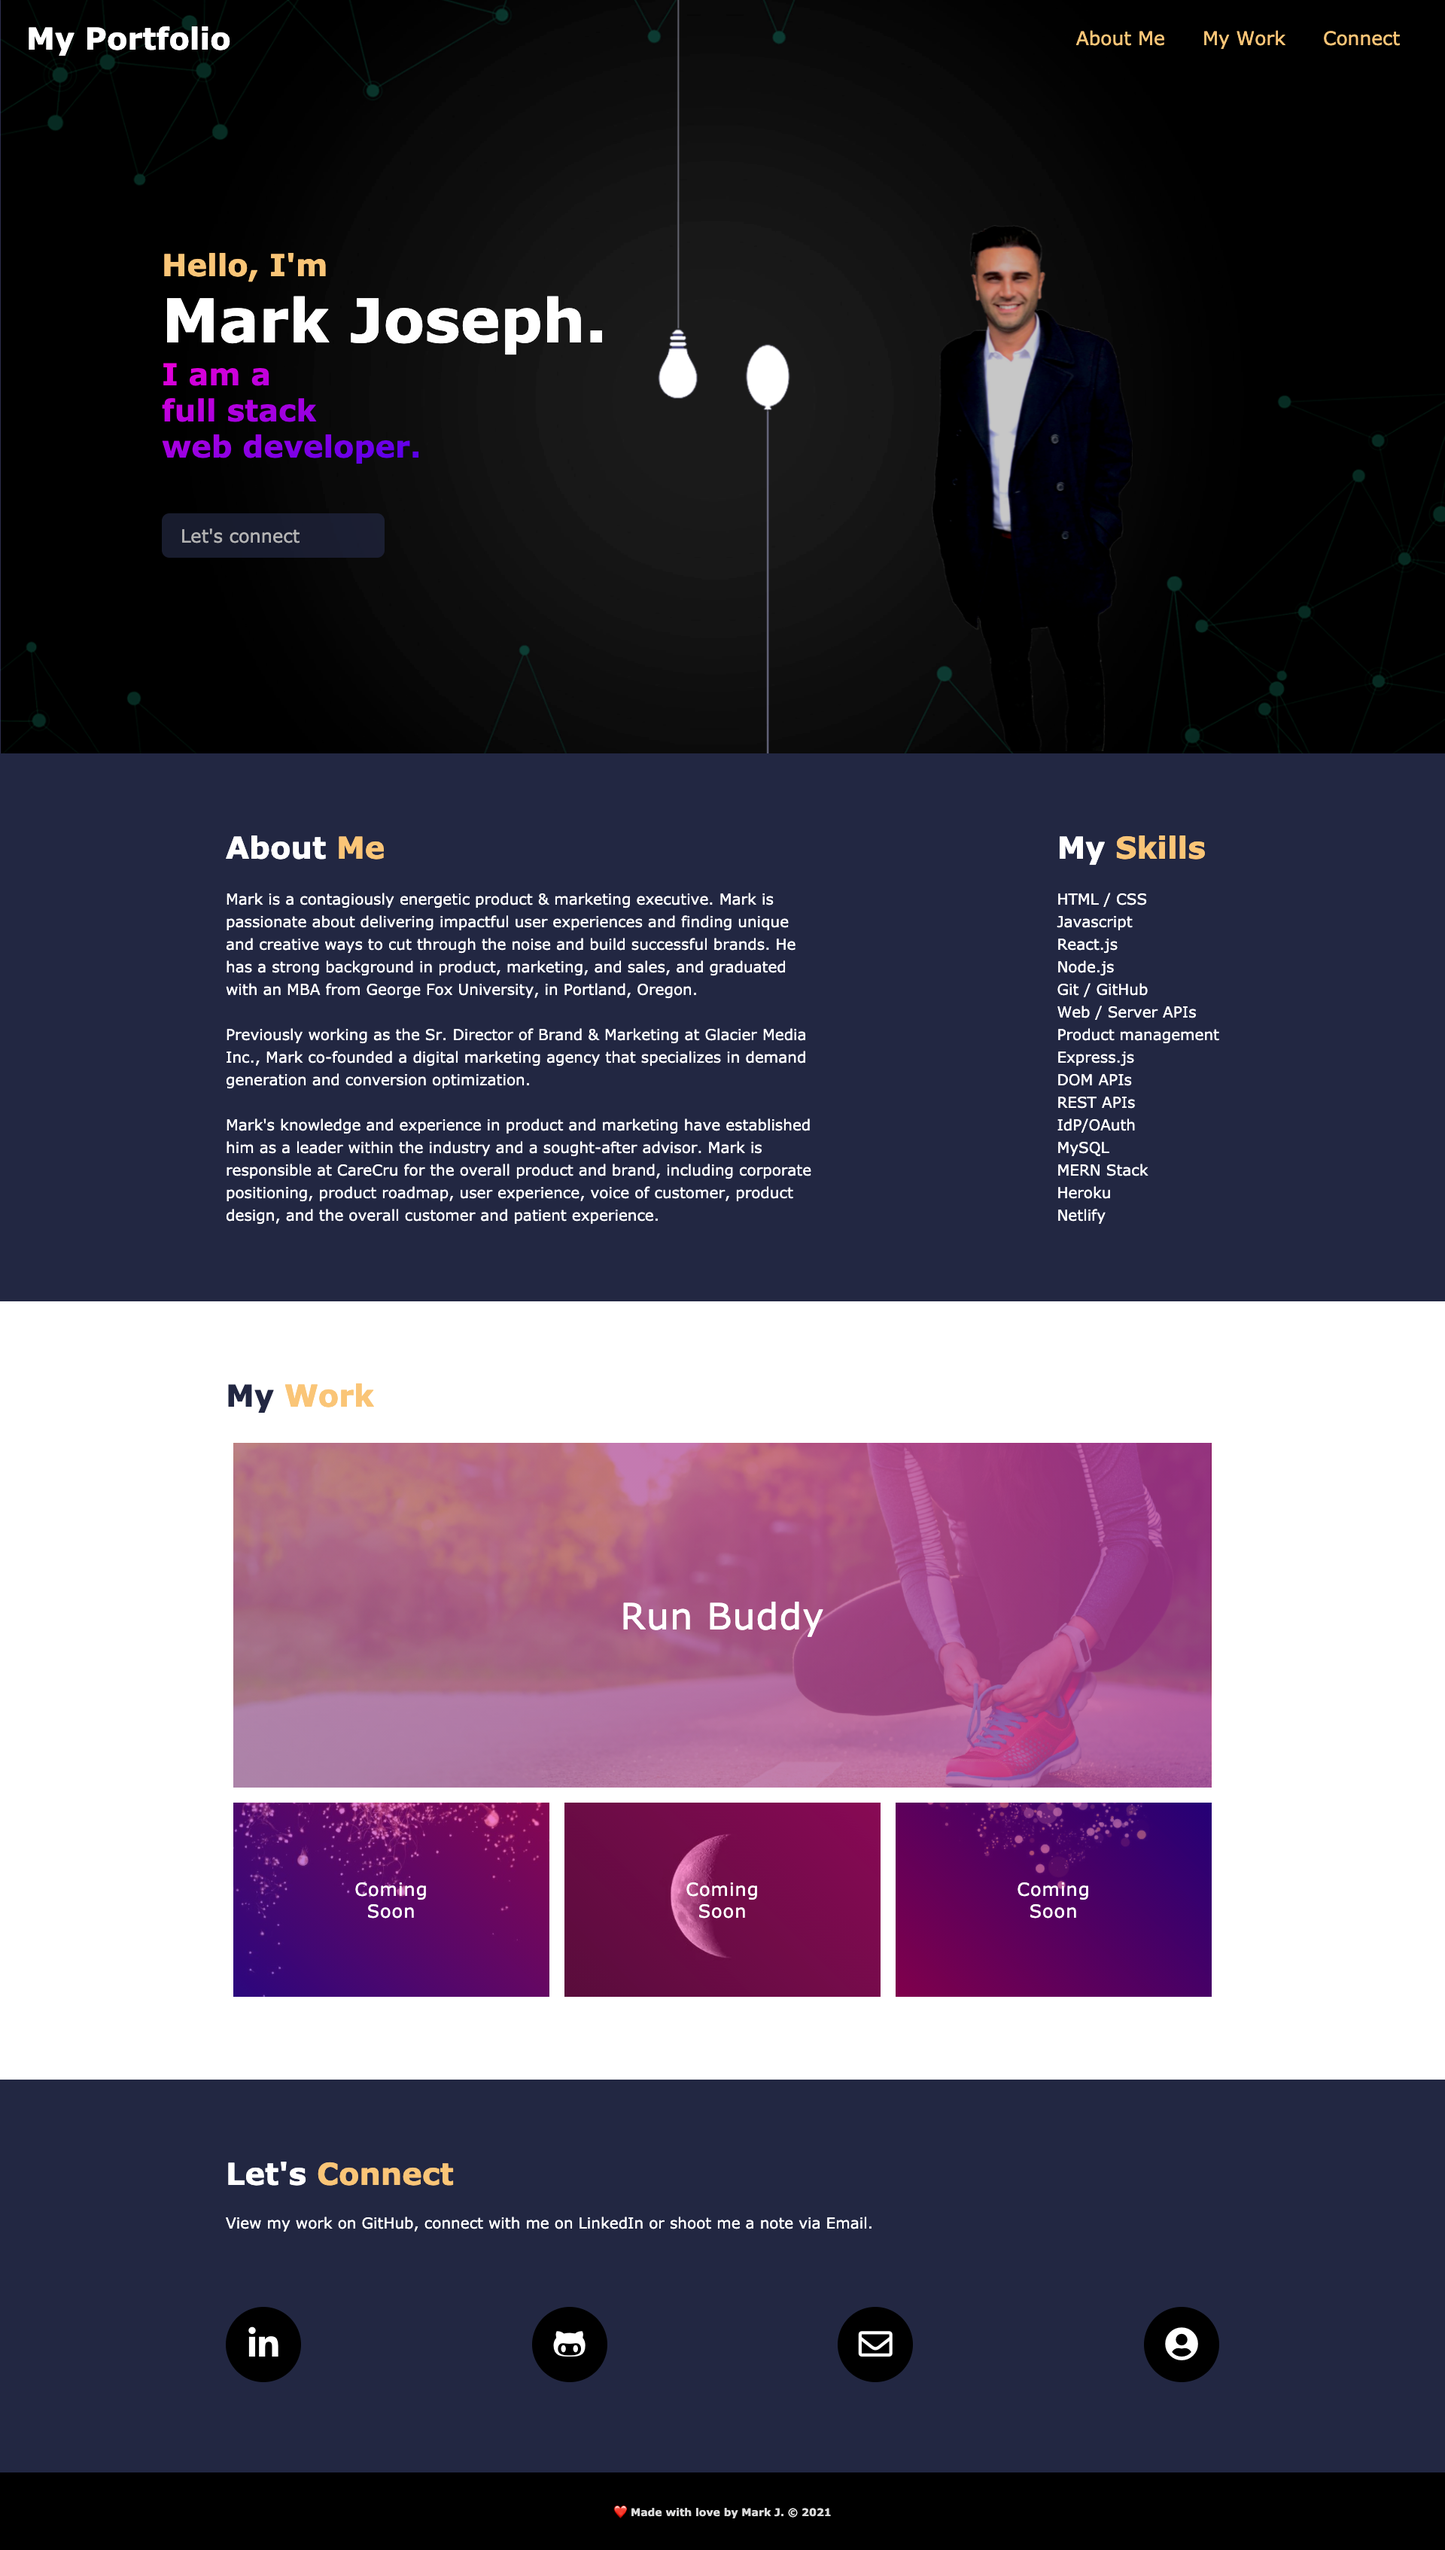
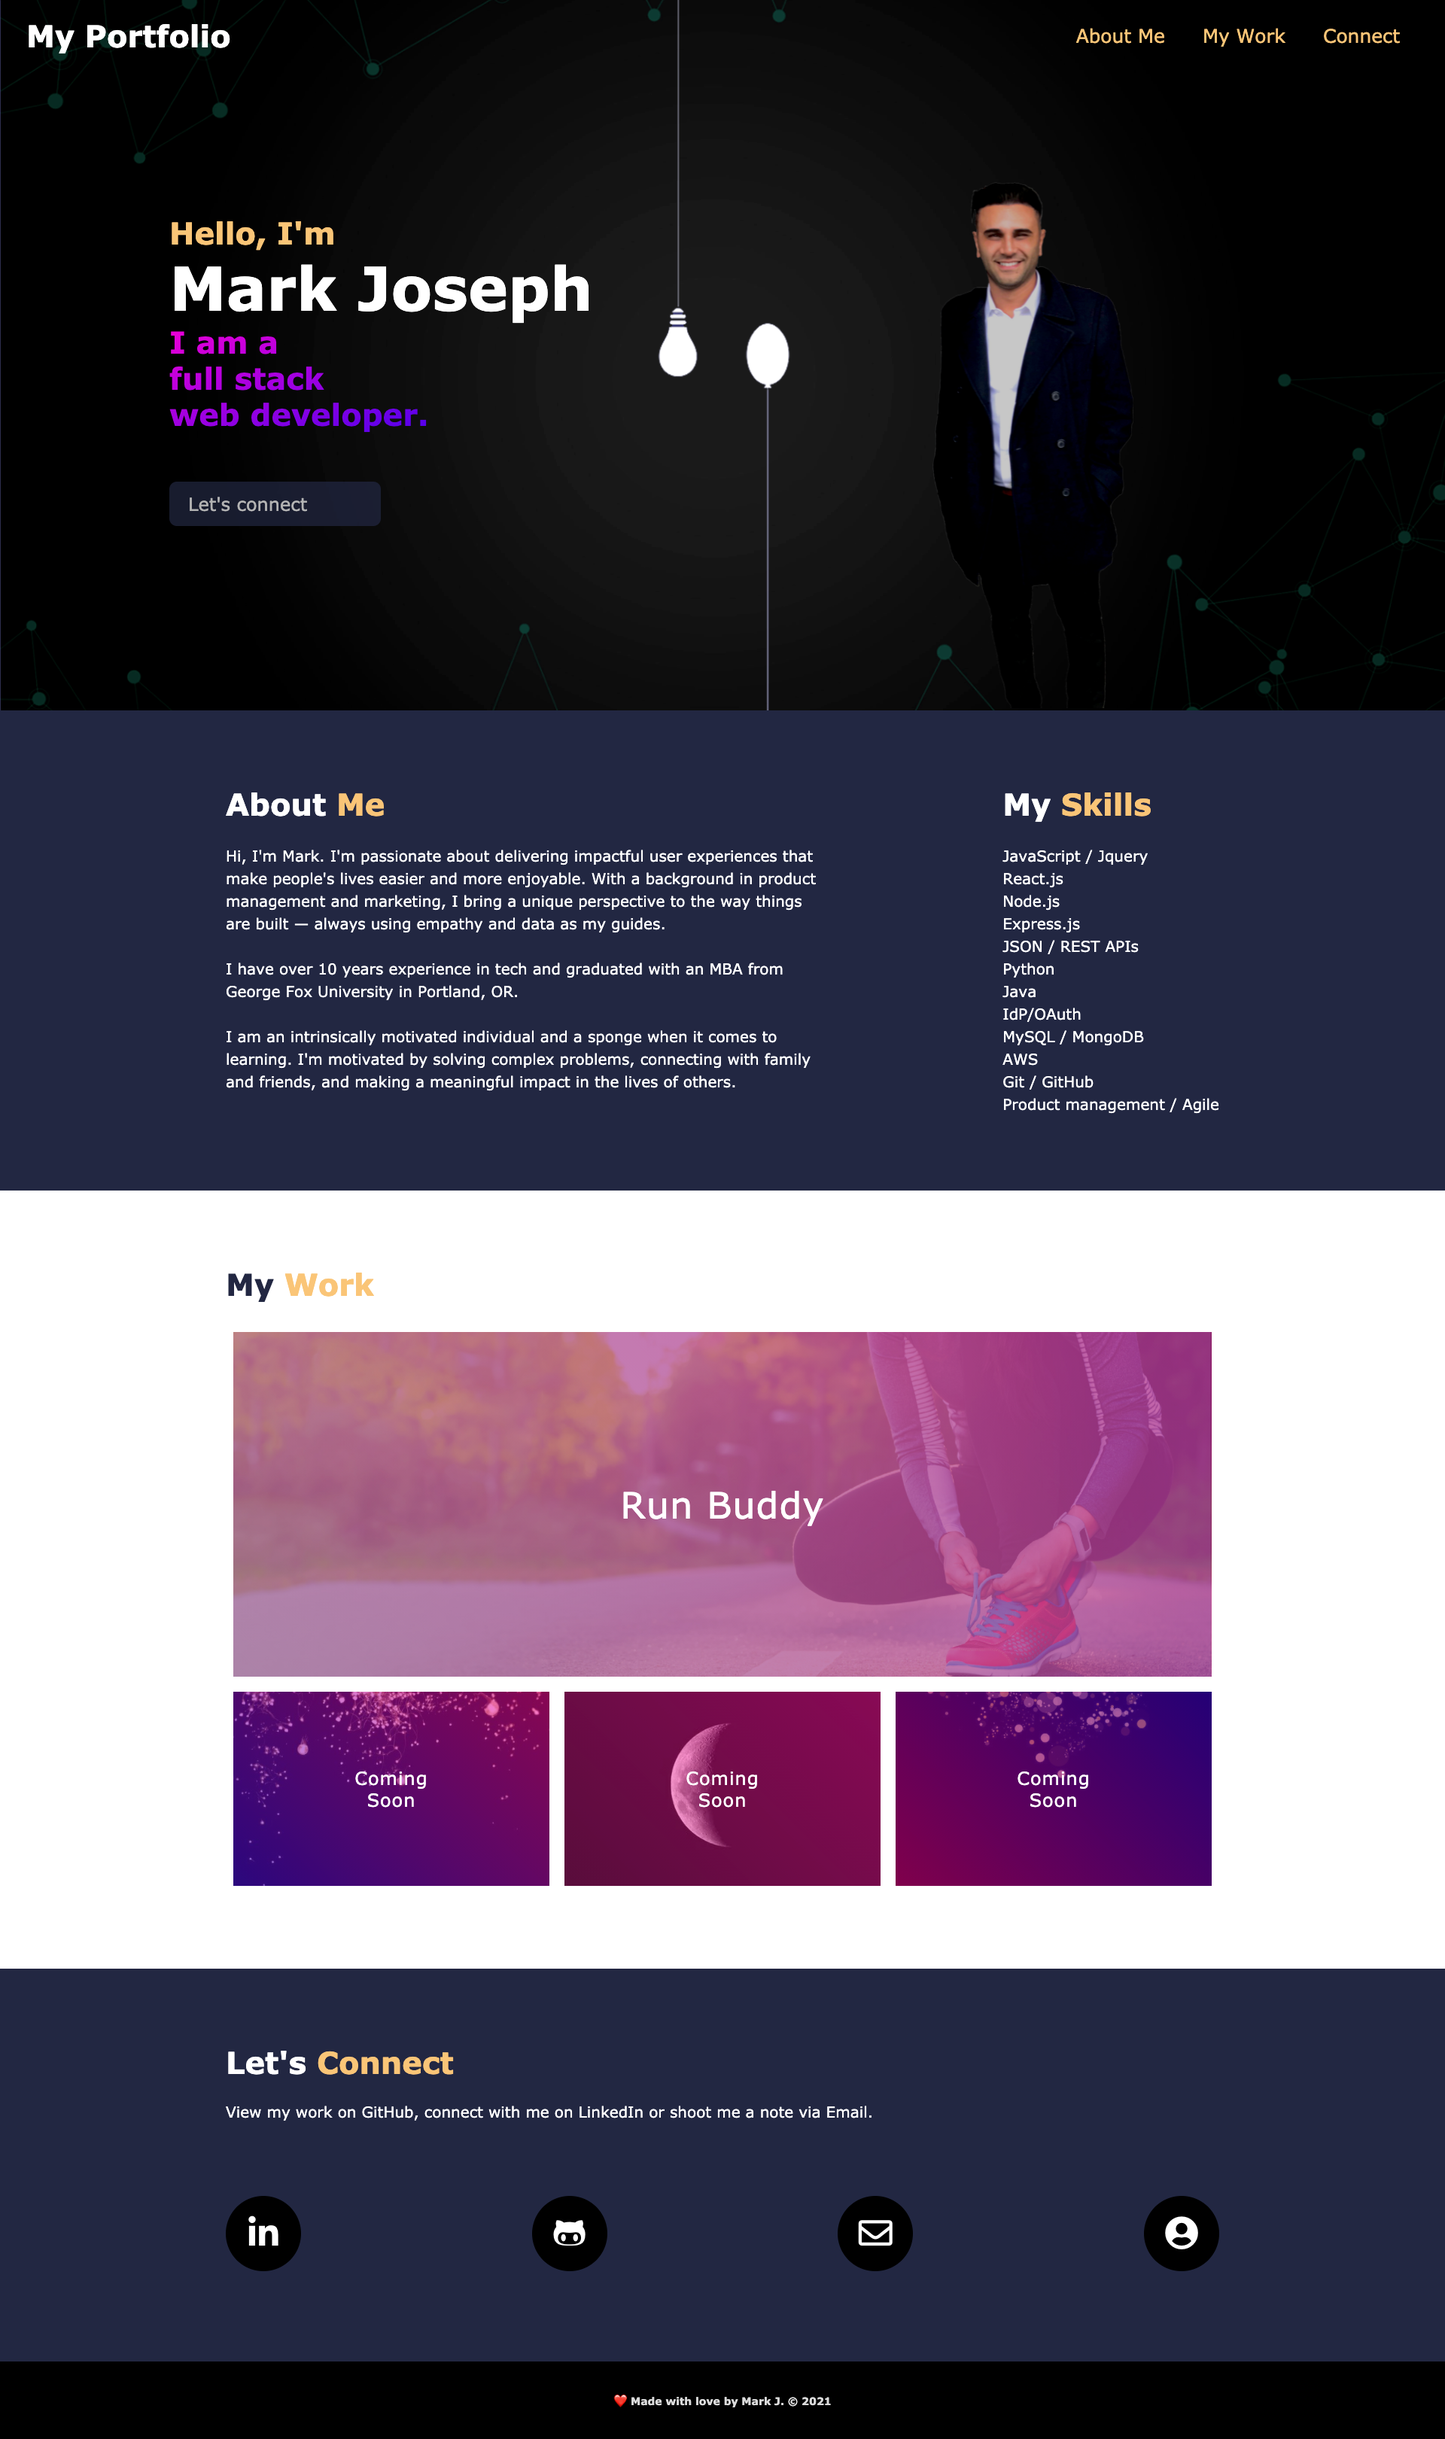
update about me and skills sections

diff --git a/index.html b/index.html
@@ -32,7 +32,7 @@
       <div class="hero-statement">
         <h2>
           <span id="hello">Hello, I'm</span> <br /><span id="hero-name">
-            Mark Joseph.</span
+            Mark Joseph</span
           >
           <br />
           <span class="neon-gradient">
@@ -60,44 +60,38 @@
           <h2 class="section-title">About <span> Me</span></h2>
 
           <p>
-            Mark is a contagiously energetic product & marketing executive. Mark
-            is passionate about delivering impactful user experiences and
-            finding unique and creative ways to cut through the noise and build
-            successful brands. He has a strong background in product, marketing,
-            and sales, and graduated with an MBA from George Fox University, in
-            Portland, Oregon. <br /><br />
+            Hi, I'm Mark. I'm passionate about delivering impactful user
+            experiences that make people's lives easier and more enjoyable. With
+            a background in product management and marketing, I bring a unique
+            perspective to the way things are built — always using empathy and
+            data as my guides. <br /><br />
 
-            Previously working as the Sr. Director of Brand & Marketing at
-            Glacier Media Inc., Mark co-founded a digital marketing agency that
-            specializes in demand generation and conversion optimization.<br /><br />
+            I have over 10 years experience in tech and graduated with an MBA
+            from George Fox University in Portland, OR.<br /><br />
 
-            Mark's knowledge and experience in product and marketing have
-            established him as a leader within the industry and a sought-after
-            advisor. Mark is responsible at CareCru for the overall product and
-            brand, including corporate positioning, product roadmap, user
-            experience, voice of customer, product design, and the overall
-            customer and patient experience.
+            I am an intrinsically motivated individual and a sponge when it
+            comes to learning. I'm motivated by solving complex problems,
+            connecting with family and friends, and making a meaningful impact
+            in the lives of others.
+            <br /><br />
           </p>
         </article>
         <article class="skills">
           <h2 class="section-title">My <span>Skills</span></h2>
 
           <ul>
-            <li>HTML / CSS</li>
-            <li>Javascript</li>
+            <li>JavaScript / Jquery</li>
             <li>React.js</li>
             <li>Node.js</li>
-            <li>Git / GitHub</li>
-            <li>Web / Server APIs</li>
-            <li>Product management</li>
             <li>Express.js</li>
-            <li>DOM APIs</li>
-            <li>REST APIs</li>
+            <li>JSON / REST APIs</li>
+            <li>Python</li>
+            <li>Java</li>
             <li>IdP/OAuth</li>
-            <li>MySQL</li>
-            <li>MERN Stack</li>
-            <li>Heroku</li>
-            <li>Netlify</li>
+            <li>MySQL / MongoDB</li>
+            <li>AWS</li>
+            <li>Git / GitHub</li>
+            <li>Product management / Agile</li>
           </ul>
         </article>
       </section>

diff --git a/README.md b/README.md
@@ -12,15 +12,15 @@ Screenshot of Mockup
 
 Welcome to my portfolio page. Here you will find the following:
 
-- Profile Picture of me
-- Brief description of my specialty
-- "About Me" section with a few paragraphs about my background.
-- "My Skills" section that list some of my development and product skills
+- Profile picture of me
+- Brief description of my focus
+- "About Me" section with a few paragraphs about my background
+- "My Skills" section that list some of my development skills
 - "My Work" section that has links to my portfolio. There are a few placeholders here that will be filled in as more projects are complete.
 - Finally, in the "Let's Connect" section, I've provided a few different ways to connect with me including, Linkedin, Github, and email.
 
 ## Comments
 
-\*This is a work in progress and I intend to update the content and some of the styling as I continue to improve my skill set.
+- This is a work in progress and I intend to update the content and some of the styling as I continue to improve my skill set.
 
-Please don't hesitate to reach out if you have any suggestions or feedback
+- Please don't hesitate to reach out if you have any suggestions or feedback
